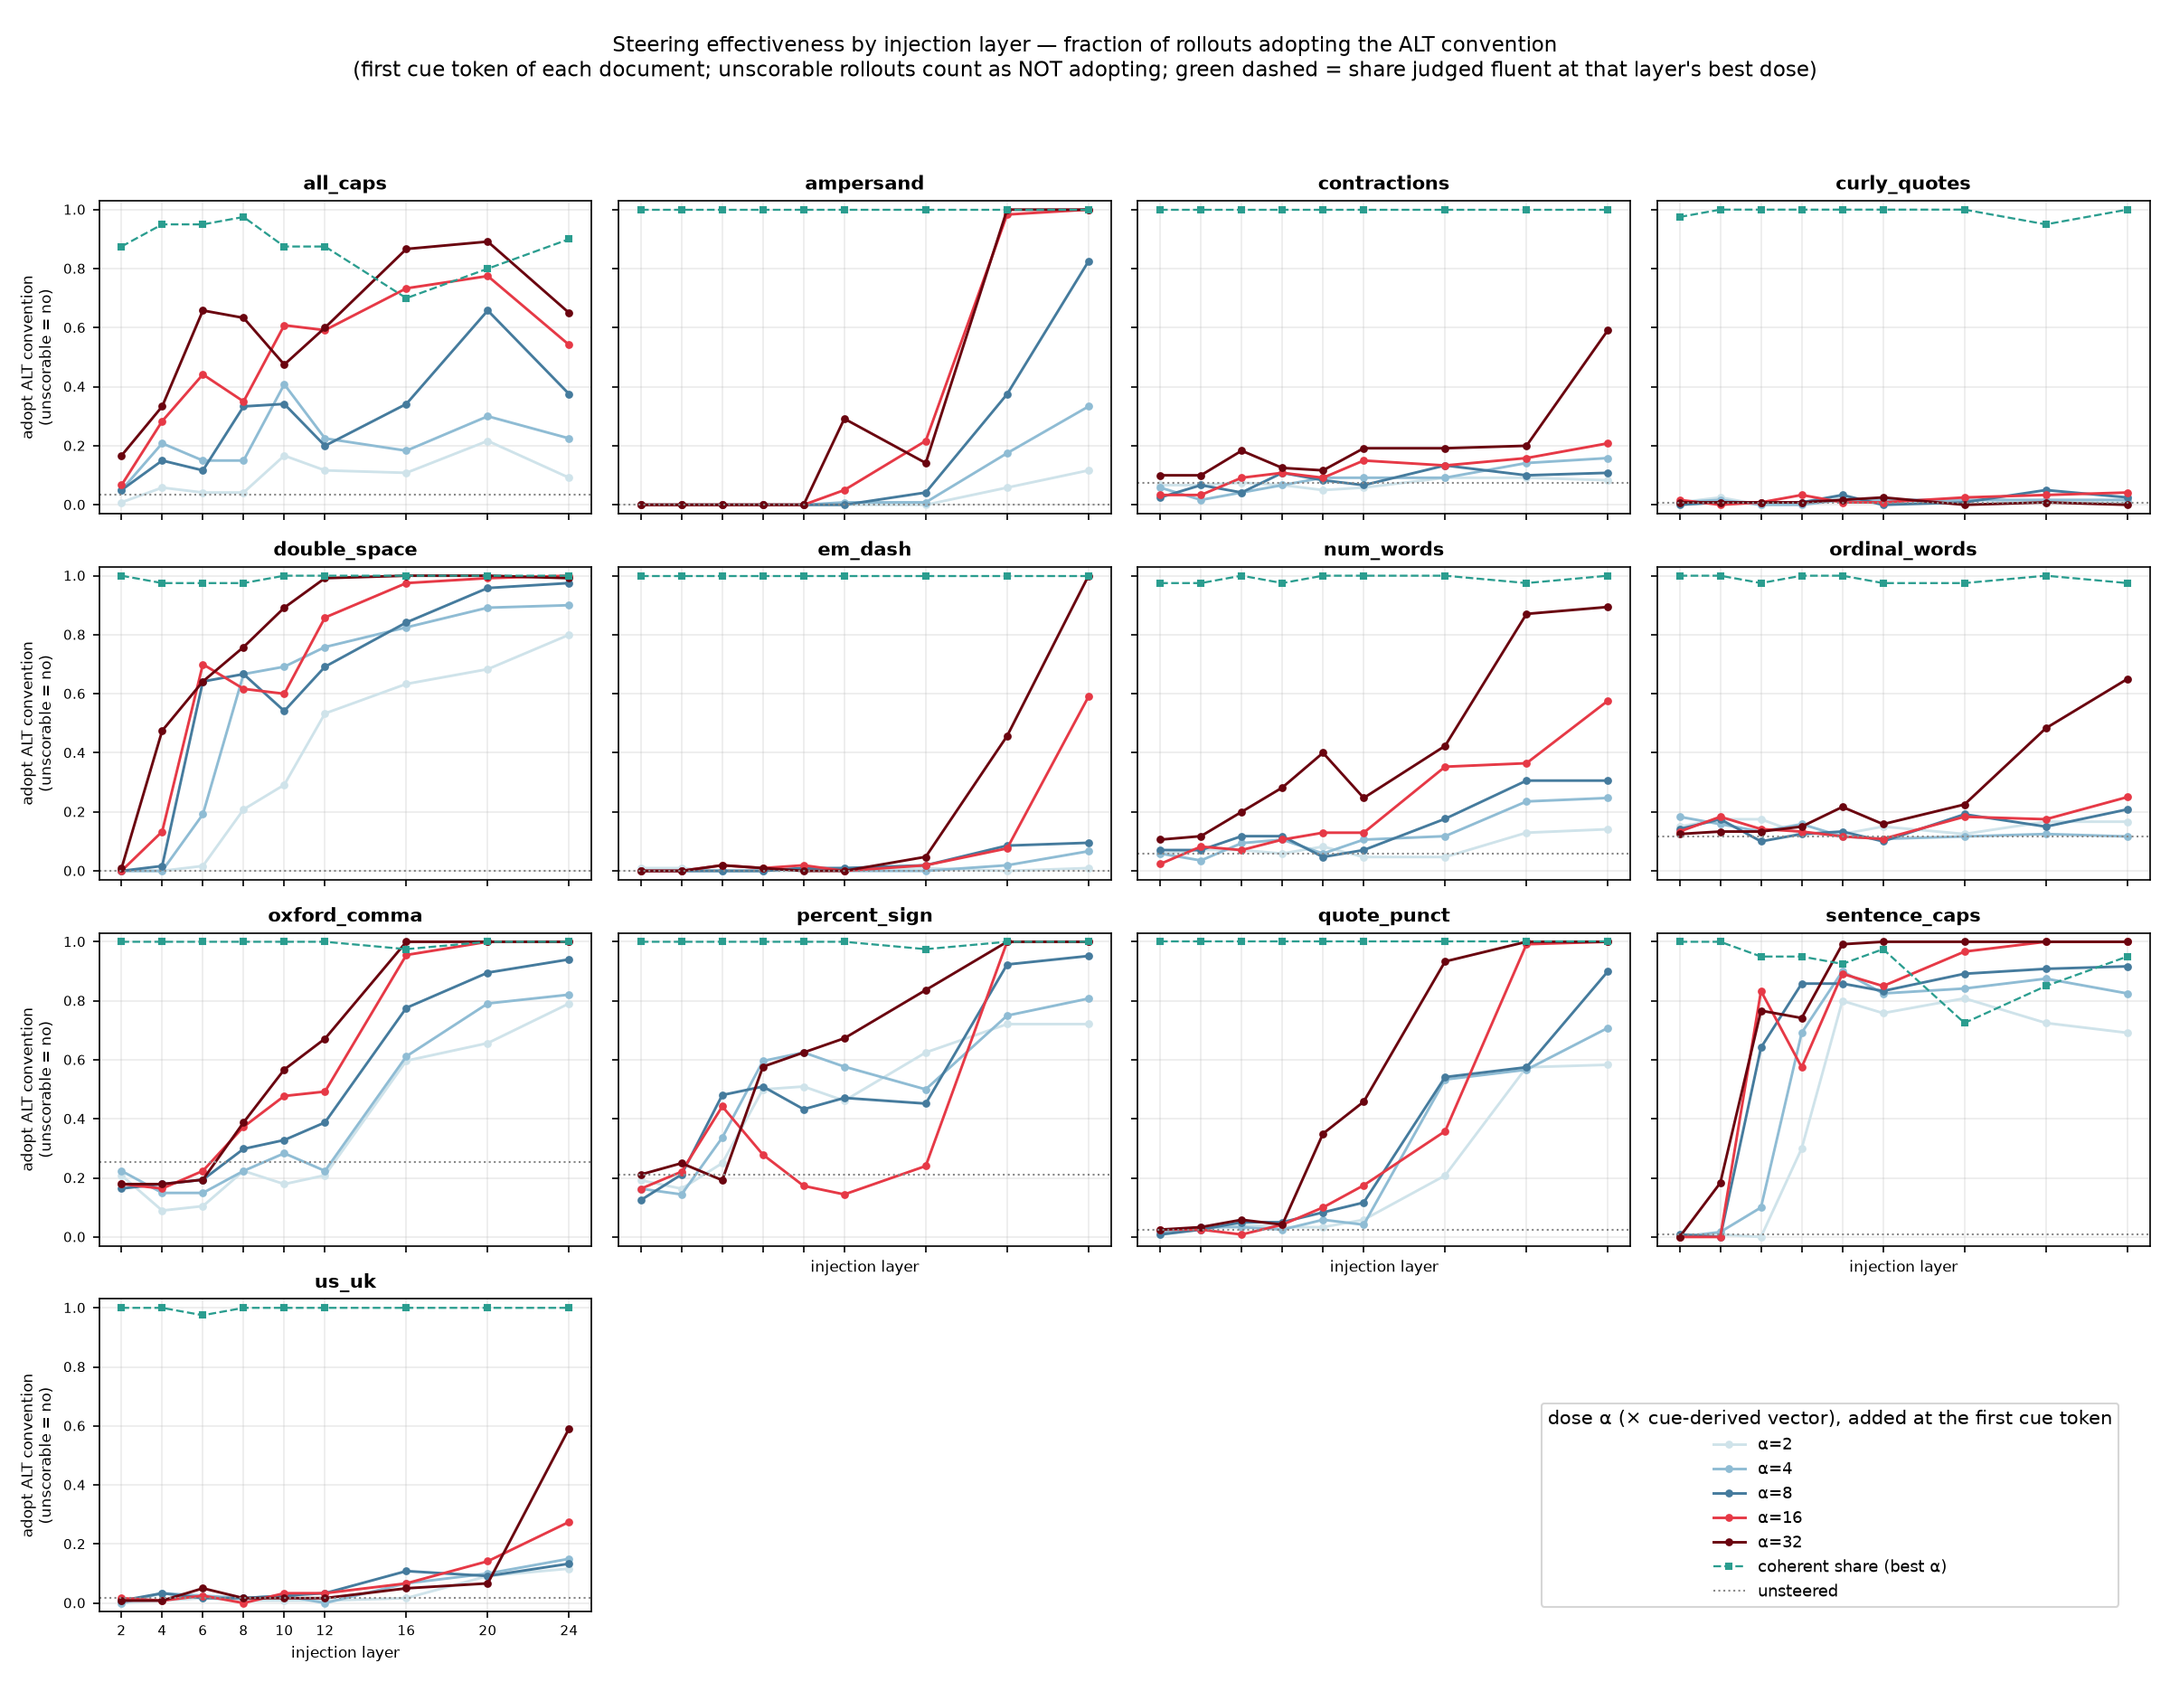
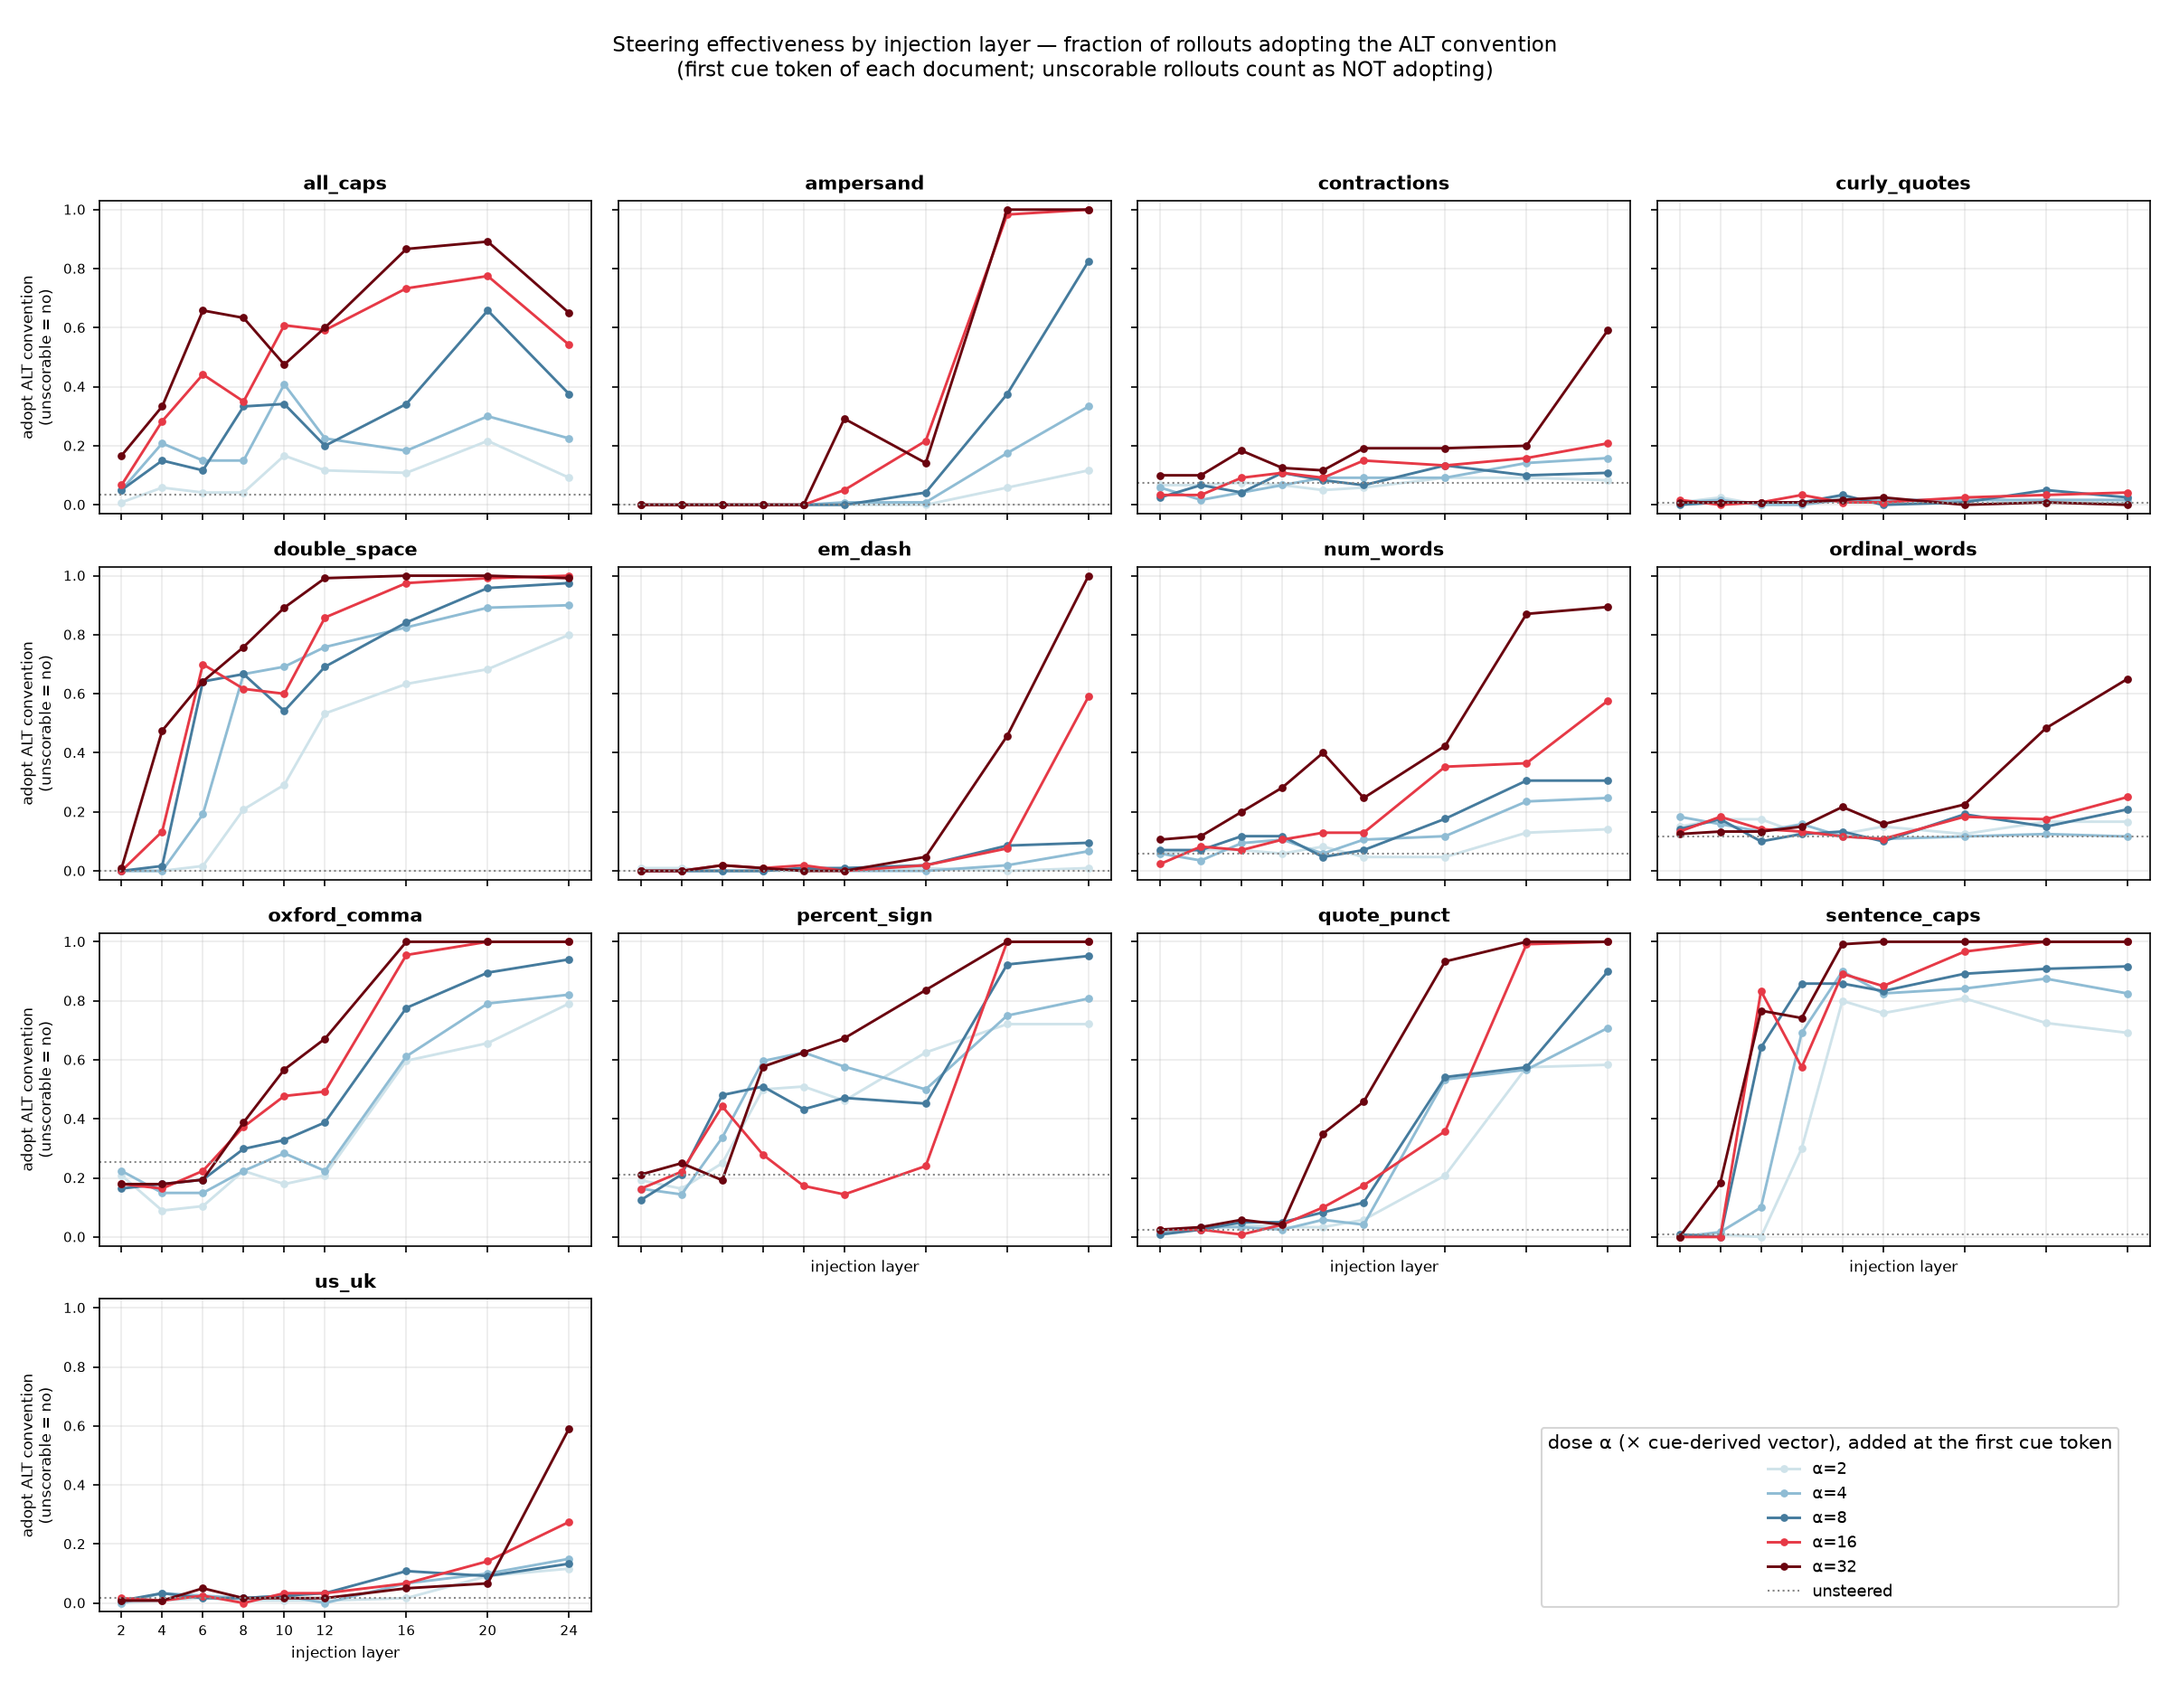
by-layer figure: drop coherence overlay (kept in the csv)

Changed region(s): [[0.1875, 0.0312, 0.8438, 0.0624], [0.7188, 0.8419, 0.9688, 0.9667]]

diff --git a/src/sandbox/ext_styleprops/plot_by_layer_cue1.py b/src/sandbox/ext_styleprops/plot_by_layer_cue1.py
@@ -101,9 +101,6 @@ def main():
         for a in ALPHAS:
             ys = [grid.get((L, a), np.nan) for L in LAYERS]
             ax.plot(LAYERS, ys, "o-", ms=3.2, lw=1.4, color=ACOL[a], label=f"α={a:g}")
-        if coh_line:
-            ax.plot(sorted(coh_line), [coh_line[L] for L in sorted(coh_line)], "s--", ms=2.6,
-                    lw=1.1, color="#2a9d8f", label="coherent share (best α)")
         ax.axhline(base, color="#888", ls=":", lw=1, label="unsteered")
         ax.set_title(name, fontsize=10, fontweight="bold")
         ax.set_ylim(-0.03, 1.03); ax.set_xticks(LAYERS); ax.tick_params(labelsize=7)
@@ -124,8 +121,7 @@ def main():
     fig.legend(h, l, loc="lower right", bbox_to_anchor=(0.98, 0.04), fontsize=8.5,
                title="dose α (× cue-derived vector), added at the first cue token")
     fig.suptitle("Steering effectiveness by injection layer — fraction of rollouts adopting the ALT convention\n"
-                 "(first cue token of each document; unscorable rollouts count as NOT adopting; "
-                 "green dashed = share judged fluent at that layer's best dose)", fontsize=11)
+                 "(first cue token of each document; unscorable rollouts count as NOT adopting)", fontsize=11)
     fig.tight_layout(rect=(0, 0, 1, 0.95))
     fig.savefig(OUT / "steering_by_layer.png", dpi=150)
     with open(OUT / "steering_by_layer.csv", "w", newline="") as fh:
